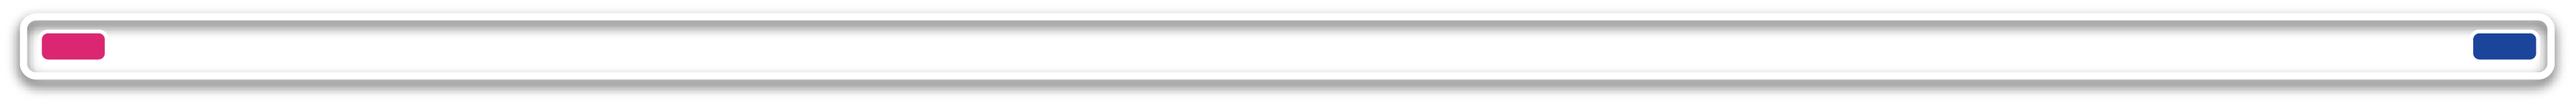
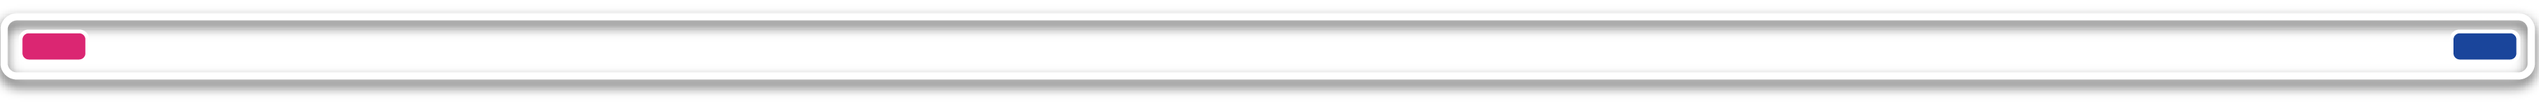
Fixed Carpath; added in two maps

Changed region(s): [[0.9341, 0.1867, 1.0, 0.8533], [0.0, 0.1867, 0.0623, 0.8533]]

diff --git a/Assets/Scripts/CarPathOriginal.cs b/Assets/Scripts/CarPathOriginal.cs
@@ -28,8 +28,7 @@ public class CarPathOriginal : MonoBehaviour
     private Transform _bar;
     private float _barLength;
     private Transform _startPoint;
-    private float _Team1Length;
-    private float _Team2Length;
+    private float _wholeTeamLength;
 
     private void Start()
     {
@@ -43,17 +42,10 @@ public class CarPathOriginal : MonoBehaviour
         _gameUI = GameObject.Find("GameUI").transform;
         _cart = _gameUI.Find("Cart");
         _bar = _gameUI.Find("Bar");
-        _barLength = _bar.GetComponent<RectTransform>().rect.width / 2f + 10f;
+        _barLength = _bar.GetComponent<RectTransform>().rect.width - 100f;
         _startPoint = WaypointsHolder.Find("Start");
         int startPointIndex = _startPoint.GetSiblingIndex();
-        for (int i = 1; i <= startPointIndex; i++)
-        {
-            _Team1Length += Vector3.Distance(WaypointsHolder.GetChild(i).position, WaypointsHolder.GetChild(i + 1).position);
-        }
-        for (int i = startPointIndex; i < WaypointsHolder.childCount - 1; i++)
-        {
-            _Team2Length += Vector3.Distance(WaypointsHolder.GetChild(i).position, WaypointsHolder.GetChild(i + 1).position);
-        }
+        _wholeTeamLength = Vector3.Distance(WaypointsHolder.GetChild(1).position, WaypointsHolder.GetChild(WaypointsHolder.childCount - 2).position);
     }
 
     private void Update()
@@ -72,7 +64,7 @@ public class CarPathOriginal : MonoBehaviour
             EventManager.Instance.TriggerEvent(new GameEnd(winner, transform, GameWinType.CartWin));
             return;
         }
-
+        _cart.position = _bar.position - new Vector3(_barLength / 2f - _barLength * Vector3.Distance(transform.position, WaypointsHolder.GetChild(1).position) / _wholeTeamLength, 0f);
         // When the car gets to Team 1's home, it stops and print out "Team 1 wins."
         if (current == target.Length - 1)
         {
@@ -111,7 +103,7 @@ public class CarPathOriginal : MonoBehaviour
                 dir = 1;
                 // Move car toward target location.
                 Vector3 pos = Vector3.MoveTowards(transform.position, target[current].position, speed * Time.deltaTime);
-                _cart.transform.position += new Vector3(speed * Time.deltaTime * _barLength / _Team1Length, 0f, 0f);
+                // _cart.transform.position += new Vector3(speed * Time.deltaTime * _barLength / _Team1Length, 0f, 0f);
                 transform.position = pos;
                 smoothRotation(target[current].transform, false);
             }
@@ -142,7 +134,7 @@ public class CarPathOriginal : MonoBehaviour
 
                 dir = 2;
                 // Move car toward target location.
-                _cart.transform.position -= new Vector3(speed * Time.deltaTime * _barLength / _Team2Length, 0f, 0f);
+                // _cart.transform.position -= new Vector3(speed * Time.deltaTime * _barLength / _Team2Length, 0f, 0f);
                 Vector3 pos = Vector3.MoveTowards(transform.position, target[current].position, speed * Time.deltaTime);
                 transform.position = pos;
                 smoothRotation(target[current].transform, true);
